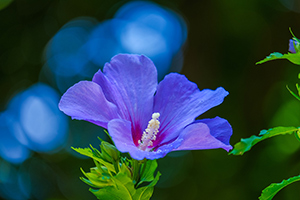
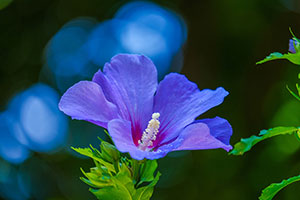
reducing image size

diff --git a/lesson11/index.html b/lesson11/index.html
@@ -74,8 +74,12 @@
                 southwest and central Idaho, as well as, much of eastern Oregon. These storms will produce lightning, small hail, 
                 and gusty winds around them.In the mountains, light snowfall amounts are expected with some snow showers lingering 
                 into Wednesday. Beyond today's weather, drier weather will move in afterward and near seasonal temperatures.</p> 
-                <small>Sorces: Idaho News <a href ="https://idahonews.com/weather/adventure-starts-with-weather/showers-and-possible-thunderstorms-in-for-forecast-for-idaho">Weather Forecast for St. Patrick's Day</a></small>
-        
+                <p class="small">Sorces: Idaho News <a href ="https://idahonews.com/weather/adventure-starts-with-weather/showers-and-possible-thunderstorms-in-for-forecast-for-idaho">Weather Forecast for St. Patrick's Day</a></small></p>
+                
+                <label for="show"><span class="readMore">Read More</span></label>
+                <input type=radio id="show">
+                <section id="content">   
+
             <h2>Interesting Idaho Facts</h2>
             <h3>Gem State indeed!</h3>
             <p>With over 72 varieties of rare and precious gems and minerals, rock hounds the world over are drawn to Idaho’s untamed treasure trove. Included among these stones is the Star Garnet, only found in 
@@ -91,8 +95,8 @@
                 Culling native Idahoan resources, Miss Green included a miner, lady justice (complete with scales of freedom), an elk head, 
                 a fir tree, cornucopias and other uniquely Idahoan features. Tempered with the phrase, “Esto Perpetua” (may it endure forever), 
                 she was able to capture the heart and essence of the Gem State. </p>    
-                <small>Sorces: Best Things Idaho <a href ="https://bestthingsid.com/fun-facts/">Fun Facts About Idaho</a></small>
-   
+                <p class="small">Sorces: Best Things Idaho <a href ="https://bestthingsid.com/fun-facts/">Fun Facts About Idaho</a></small></p>
+                </section>
         </div>
 
         <div class="clearfix">

diff --git a/lesson11/sodaSprings.html b/lesson11/sodaSprings.html
@@ -105,7 +105,7 @@
             gas mixing with water in an underground chamber, caused water to shoot 100 feet into the sky. It is 
             now capped and controlled by a timer and erupts every hour on the hour. It is the only captive geyser in the world.</p>
        
-        <label for="show"><section class="readMore">Read More</section></label>
+        <label for="show"><span class="readMore">Read More</span></label>
         <input type=radio id="show">
         <section id="content">            
 
@@ -132,9 +132,9 @@
             </p>
         </section>    
 
-            <small>Sources: Kids Encyclopedia <a href ="https://kids.kiddle.co/Soda_Springs,_Idaho"> Soda Springs Facts,</a></small>
-            <small> Soda Springs <a href ="https://www.sodaspringsid.com/recreation/index.php"> Recreation Activities,</a></small>
-            <small> Idaho Forests <a href ="https://www.fs.usda.gov/recmain/ctnf/recreation"> Caribou-Targhee National Forest</a></small>
+            <p class="small">Sources: Kids Encyclopedia <a href ="https://kids.kiddle.co/Soda_Springs,_Idaho"> Soda Springs Facts,</a>
+            Soda Springs <a href ="https://www.sodaspringsid.com/recreation/index.php"> Recreation Activities,</a>
+            Idaho Forests <a href ="https://www.fs.usda.gov/recmain/ctnf/recreation"> Caribou-Targhee National Forest</a></p>
     </div>
 
     <div class="clearfix">

diff --git a/lesson11/fishHaven.html b/lesson11/fishHaven.html
@@ -120,7 +120,7 @@
             
             "It's a great place to live," he said with a smile. "I just want to help people live here."</p>
 
-            <label for="show"><section class="readMore">Read More</section></label>
+            <label for="show"><span class="readMore">Read More</span></label>
             <input type=radio id="show">
             <section id="content">  
                    
@@ -138,7 +138,7 @@
             "It's the way it is and the way it's always going to be right now," Vic said. "It will be here a long time after we're gone."</p>
             </section>
             
-            <small>Sources: Deseret News <a href ="https://www.deseret.com/2000/12/26/19546274/little-fish-haven-idaho-is-paradise-for-residents">Fish Haven: a paradise for residents</a></small> 
+            <p class="small">Sources: Deseret News <a href ="https://www.deseret.com/2000/12/26/19546274/little-fish-haven-idaho-is-paradise-for-residents">Fish Haven: a paradise for residents</a></p> 
     </div>
 
     <div class="clearfix">

diff --git a/lesson11/preston.html b/lesson11/preston.html
@@ -129,10 +129,8 @@
                     It is one of the safest places to live in the State of Idaho and in Cache Valley. </p>   
                     
                 </section> 
-                <p>  
-                <small>Sources: Kids Encyclopedia <a href ="https://kids.kiddle.co/Preston,_Idaho"> Preston Facts,</a></small>
-                <small>Preston Chamber of Commerce <a href ="https://prestonchamber.org/community/preston-history/"> Preston History</a></small>
-                </p>     
+                <p class="small">Sources: Kids Encyclopedia <a href ="https://kids.kiddle.co/Preston,_Idaho"> Preston Facts,</a>
+                Preston Chamber of Commerce <a href ="https://prestonchamber.org/community/preston-history/"> Preston History</a></p>    
             </div>
 
         <div class="clearfix">

diff --git a/lesson11/css/small.css b/lesson11/css/small.css
@@ -412,6 +412,10 @@ input#hide:checked ~ section#content {
     padding-left:8px;
     display:block;
 }
+
+p.small{
+    font-size: small;
+}
 /*----------- FOOTER --------------*/
 footer {
     /*background-color:  #82d173;*/

diff --git a/lesson11/css/medium.css b/lesson11/css/medium.css
@@ -110,7 +110,7 @@
         grid-row: 1 / 6;
     }
     div.homecards :nth-child(2) :nth-child(6) {
-        grid-column: 4 / 2;
+        grid-column: 2 / 3;
     }
 
  
